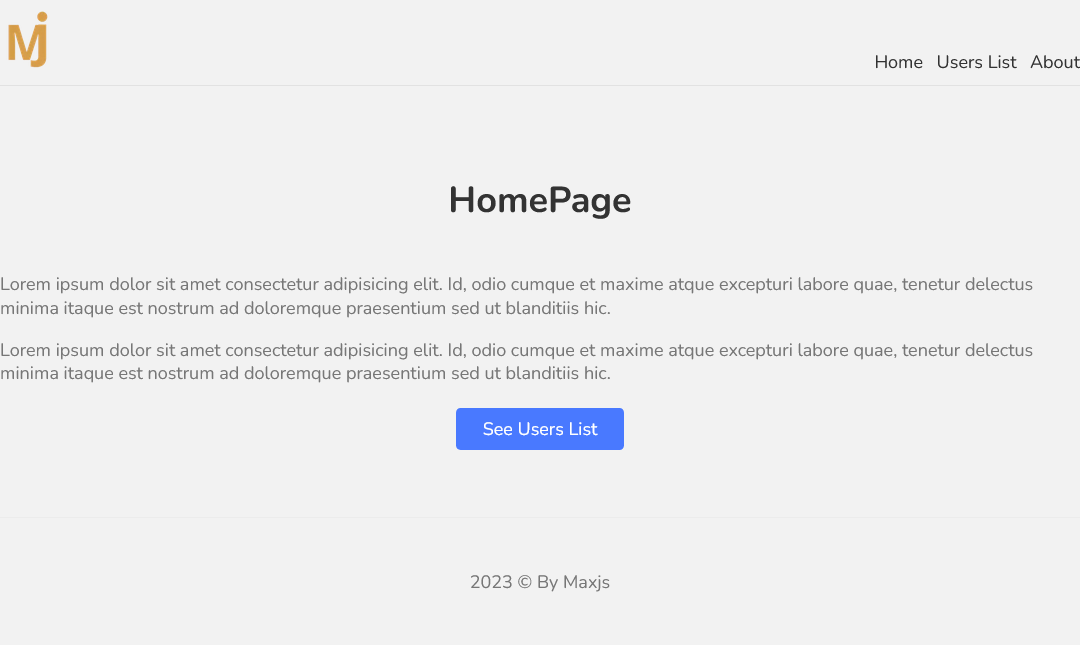
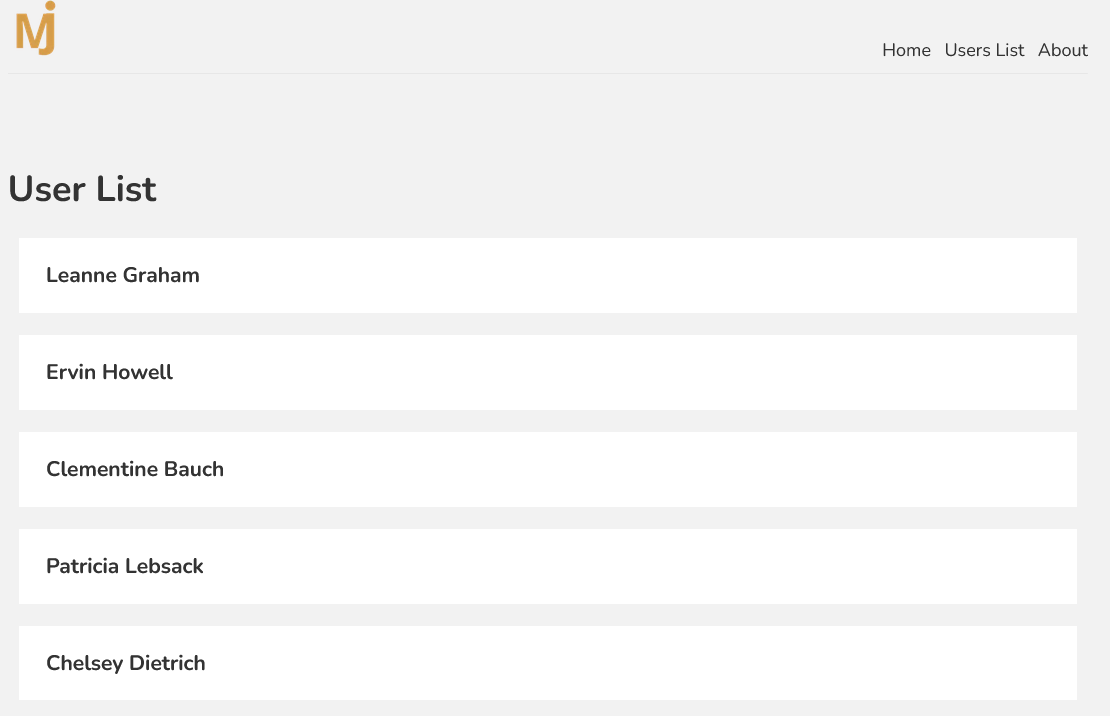
Data Fetch: (#2)
- fetched data and showed them in a list
- ditermined all the routes in UsersSingle
- fetched data for each single page
- updated README.md & Cover image

diff --git a/src/pages/users/[id].js b/src/pages/users/[id].js
@@ -1,13 +1,42 @@
 import React from "react";
 import Head from "next/head";
 
-function UserSingle() {
+export const getStaticPaths = async () => {
+  const res = await fetch("https://jsonplaceholder.typicode.com/users");
+  const data = await res.json();
+
+  const paths = data.map(({ id }) => {
+    return { params: { id: id.toString() } };
+  });
+
+  return {
+    paths,
+    fallback: false,
+  };
+};
+
+export const getStaticProps = async ({ params }) => {
+  const id = params.id;
+  const res = await fetch("https://jsonplaceholder.typicode.com/users/" + id);
+  const data = await res.json();
+
+  return {
+    props: { user: data },
+  };
+};
+
+function UserSingle({ user }) {
   return (
     <>
       <Head>
-        <title>User list | User Name</title>
+        <title>User list | {user.name}</title>
       </Head>
-      <div>UserSingle</div>
+      <div>
+        <h1>{user.name}</h1>
+        <p>{user.username}</p>
+        <p>{user.email}</p>
+        <p>{user.address.city}</p>
+      </div>
     </>
   );
 }

diff --git a/src/pages/users/index.js b/src/pages/users/index.js
@@ -1,13 +1,33 @@
 import React from "react";
 import Head from "next/head";
+import Link from "next/link";
+import styles from "../../styles/Users.module.css";
 
-function Users() {
+export const getStaticProps = async () => {
+  const res = await fetch("https://jsonplaceholder.typicode.com/users");
+  const data = await res.json();
+
+  return {
+    props: { users: data },
+  };
+};
+
+function Users({ users }) {
   return (
     <>
       <Head>
         <title>User list | Users</title>
       </Head>
-      <div>Users</div>
+      <div>
+        <h1>User List</h1>
+        {users.map(({ id, name }) => (
+          <div className={styles.single}>
+            <Link href={`/users/${id}`}>
+              <h3>{name}</h3>
+            </Link>
+          </div>
+        ))}
+      </div>
     </>
   );
 }

diff --git a/src/styles/Users.module.css b/src/styles/Users.module.css
@@ -1,0 +1,10 @@
+.single {
+  padding: 2px 16px;
+  background: #fff;
+  display: block;
+  margin: 20px 10px;
+  border-left: 8px solid #fff;
+}
+.single:hover {
+  border-left: 8px solid #4979ff;
+}

diff --git a/README.md b/README.md
@@ -1,6 +1,6 @@
 # Next Portfolio
 
-This is a practical [Next.js](https://nextjs.org/) project bootstrapped with [`create-next-app`](https://github.com/vercel/next.js/tree/canary/packages/create-next-app).
+This is a basic practical [Next.js](https://nextjs.org/) project bootstrapped with [`create-next-app`](https://github.com/vercel/next.js/tree/canary/packages/create-next-app). It fetches the data from [JsonPlaceholder](https://jsonplaceholder.typicode.com/) as well.
 
 See the live project [here](https://maxjn-userlist-next.vercel.app/) .
 
